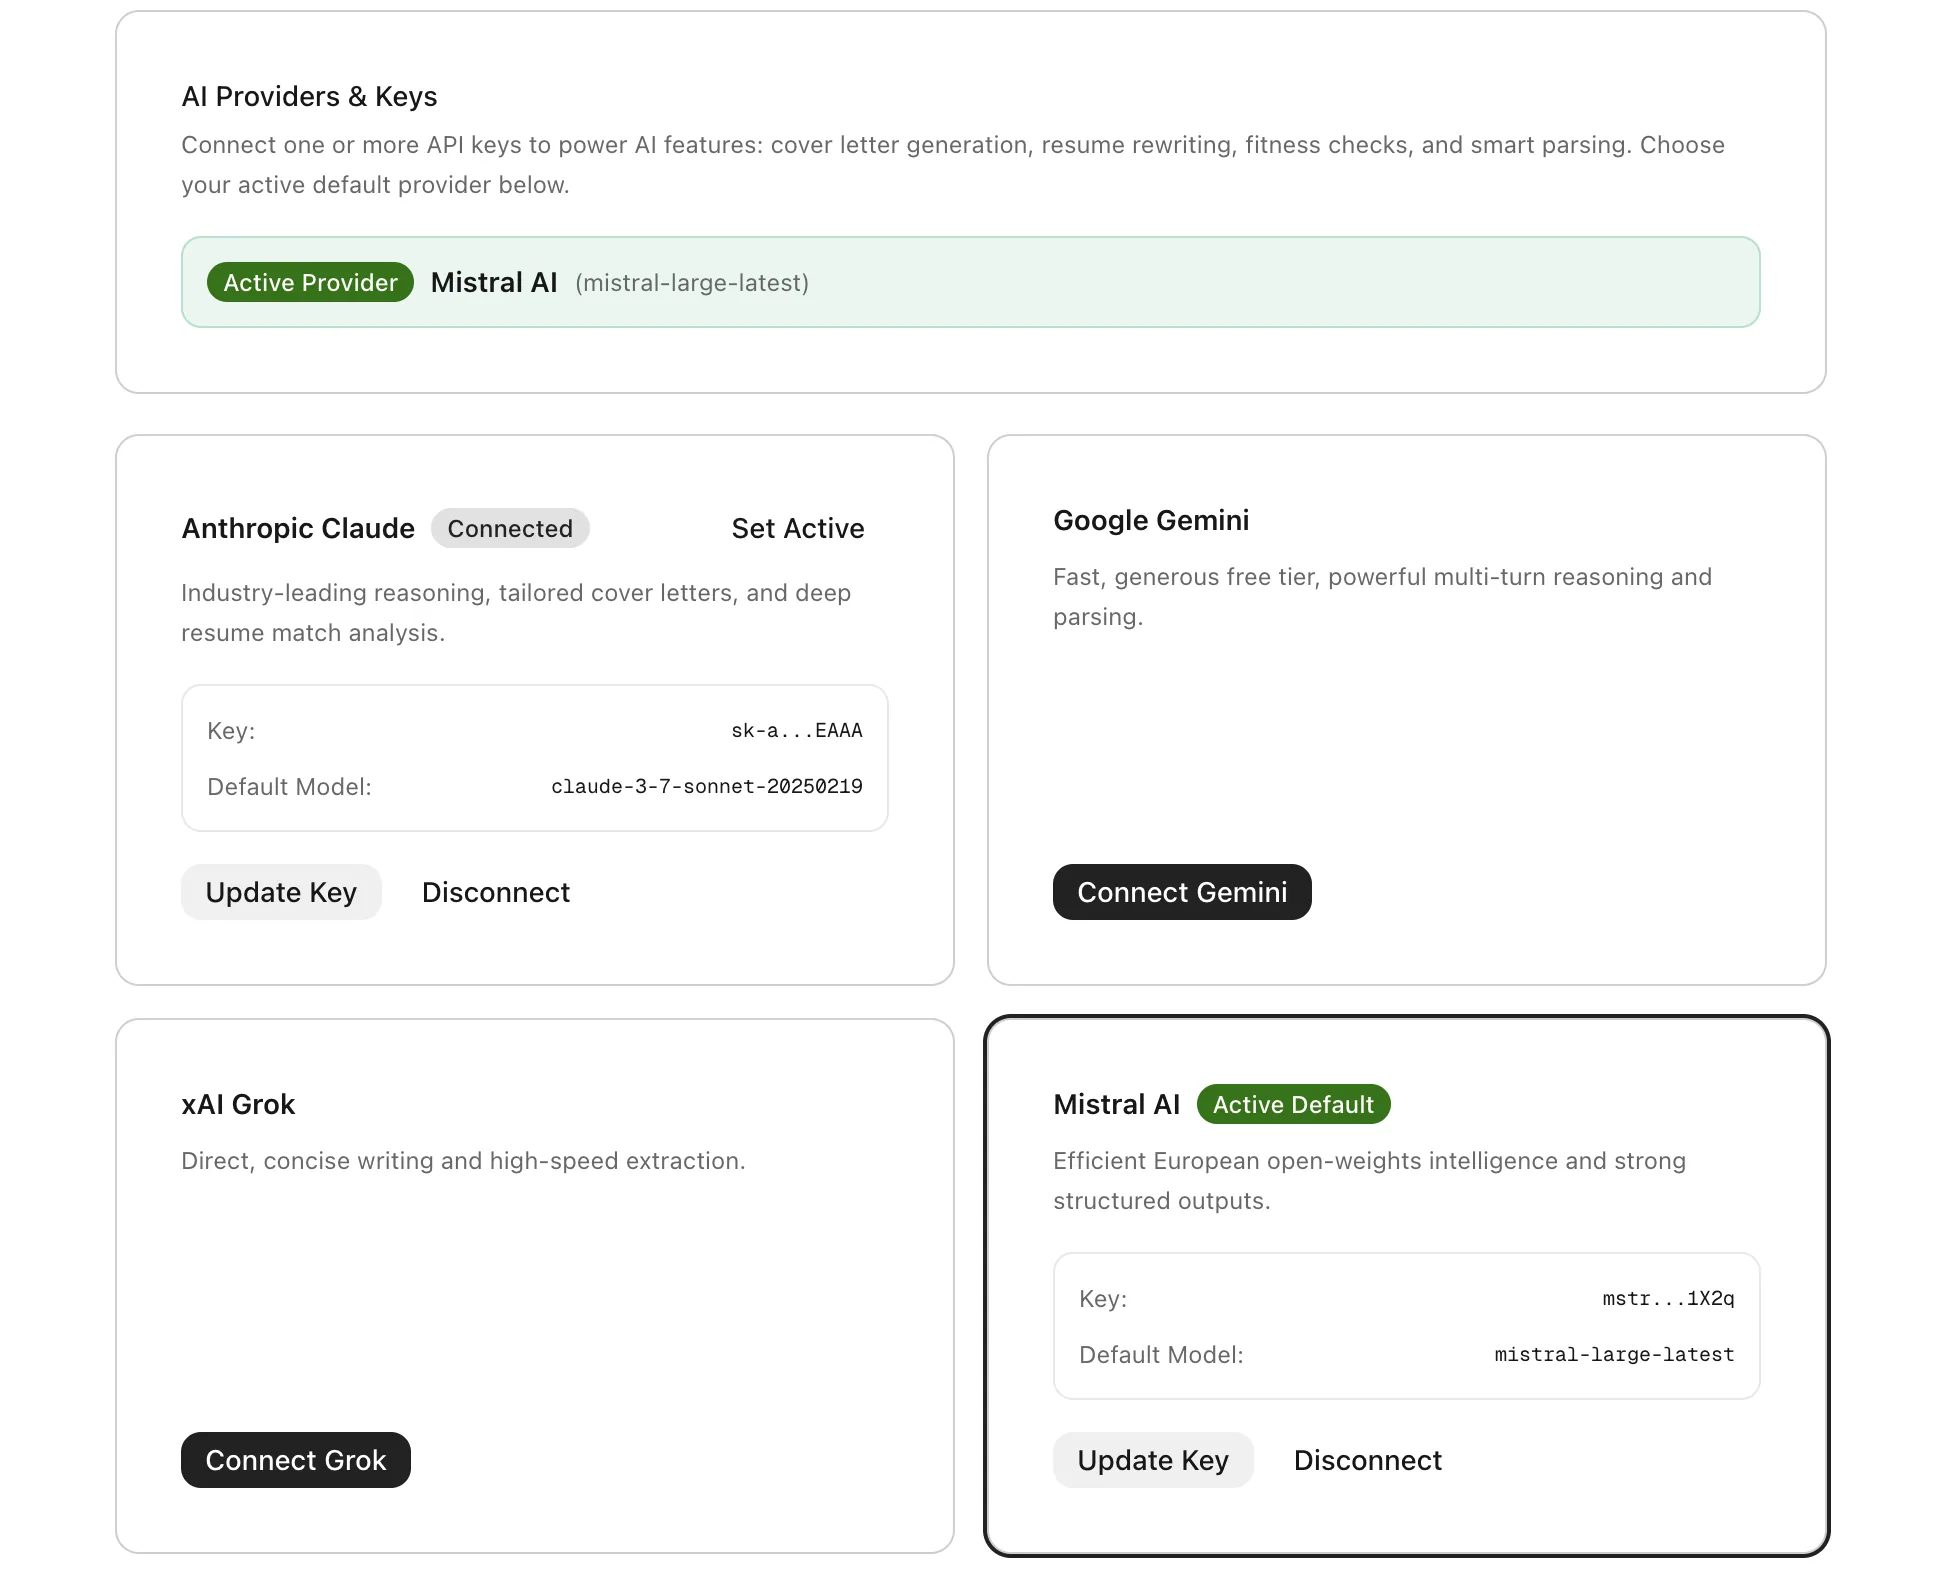
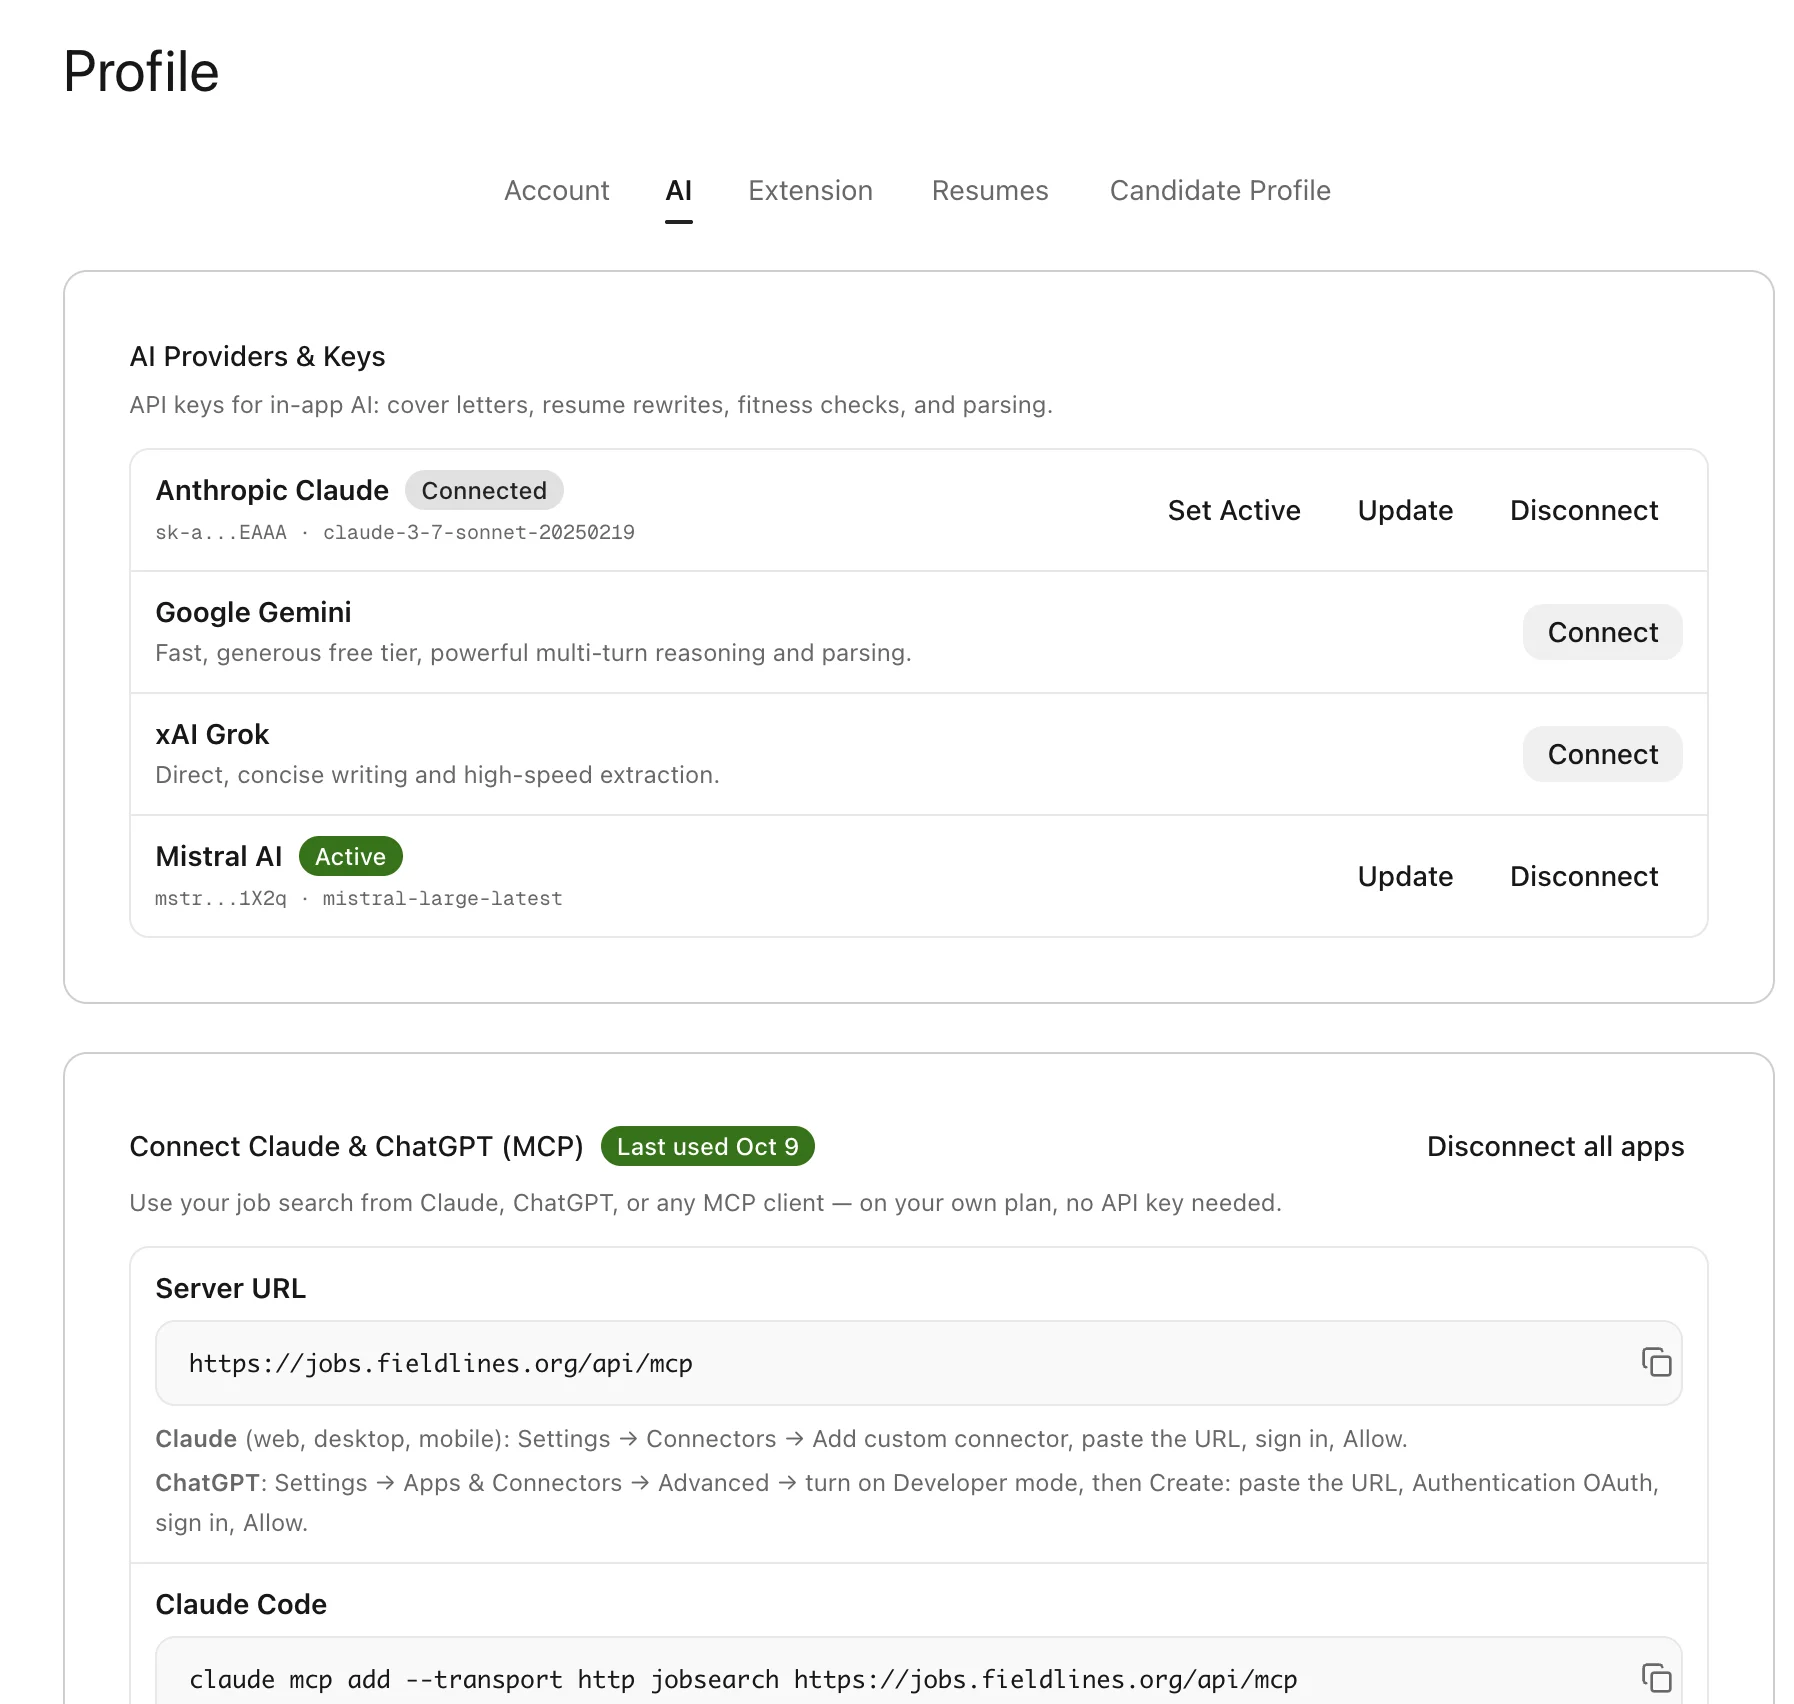
feat(landing): new AI settings screenshot; drop Claude Code command

diff --git a/src/components/LandingPage.tsx b/src/components/LandingPage.tsx
@@ -41,8 +41,11 @@ type Shot = Img & { alt: string; mobile?: Img };
 function Screenshot({ shot, priority, fill }: { shot: Shot; priority?: boolean; fill?: string }) {
   const sizes = "(min-width: 1024px) 680px, 100vw";
   const { props: { srcSet: desktopSrcSet } } = getImageProps({ src: shot.src, alt: shot.alt, width: shot.width, height: shot.height, sizes });
+  const base = fill ? shot : shot.mobile ?? shot;
   const { props: img } = getImageProps({
-    ...(fill ? shot : shot.mobile ?? shot),
+    src: base.src,
+    width: base.width,
+    height: base.height,
     alt: shot.alt,
     sizes,
     loading: priority ? "eager" : "lazy",
@@ -140,7 +143,7 @@ const SHOTS = {
   rewriter: { src: "/hero/tailored-rewriter.webp", alt: "Tailored resume with individual changes available to accept or dismiss beside the employer's application form.", width: 2400, height: 1177, mobile: { src: "/hero/tailored-rewriter-mobile.webp", width: 1200, height: 757 } },
   coverLetter: { src: "/hero/cover-letter.webp", alt: "Editable cover letter with contact details beside an employer's application form.", width: 2400, height: 1177, mobile: { src: "/hero/cover-letter-mobile.webp", width: 1200, height: 757 } },
   fill: { src: "/hero/extension-fill.webp", alt: "Chrome extension filling saved application details into an Ashby application form.", width: 2400, height: 1182, mobile: { src: "/hero/extension-fill-mobile.webp", width: 729, height: 1227 } },
-  providers: { src: "/hero/ai-providers.webp", alt: "AI settings with options to connect Anthropic Claude, Google Gemini, xAI Grok, and Mistral AI.", width: 1946, height: 1572 },
+  providers: { src: "/hero/ai-providers.webp", alt: "AI settings with options to connect Anthropic Claude, Google Gemini, xAI Grok, and Mistral AI.", width: 1794, height: 1704 },
   connector: { src: "/hero/claude-connector.webp", alt: "Job Search connected to Claude, with tools for reading and updating applications, profiles, and resumes.", width: 1840, height: 1436 },
   importSheet: { src: "/hero/import-sheet.webp", alt: "Job import options for a Google Sheet link or CSV upload.", width: 1018, height: 776 },
   resumes: { src: "/hero/resumes.webp", alt: "Saved resumes with tags showing the companies each version was used for.", width: 1714, height: 1419 },
@@ -446,12 +449,6 @@ export function LandingPage() {
               <p className="text-sm text-secondary leading-relaxed">
                 The connector uses your Claude plan, with no separate API key needed.
               </p>
-              <div className="space-y-1.5">
-                <div className="text-xs font-semibold text-primary">Add the connector in Claude Code</div>
-                <code className="block overflow-x-auto rounded-md border border-border/60 bg-zinc-950/80 px-3 py-2 text-[11px] font-mono text-zinc-300">
-                  claude mcp add --transport http jobsearch https://jobs.fieldlines.org/api/mcp
-                </code>
-              </div>
             </div>
           </div>
         </div>
